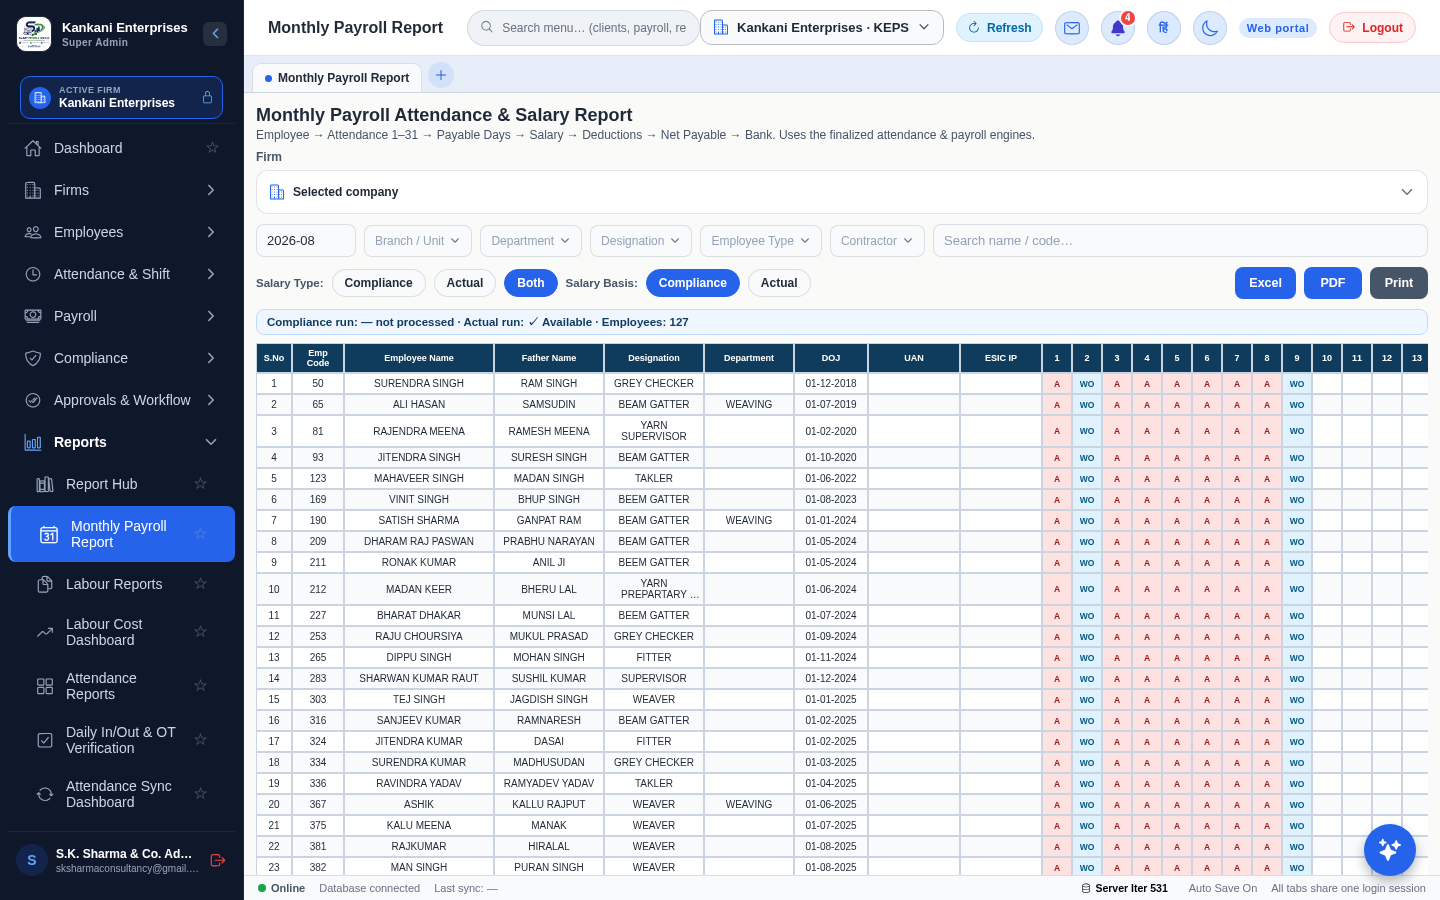
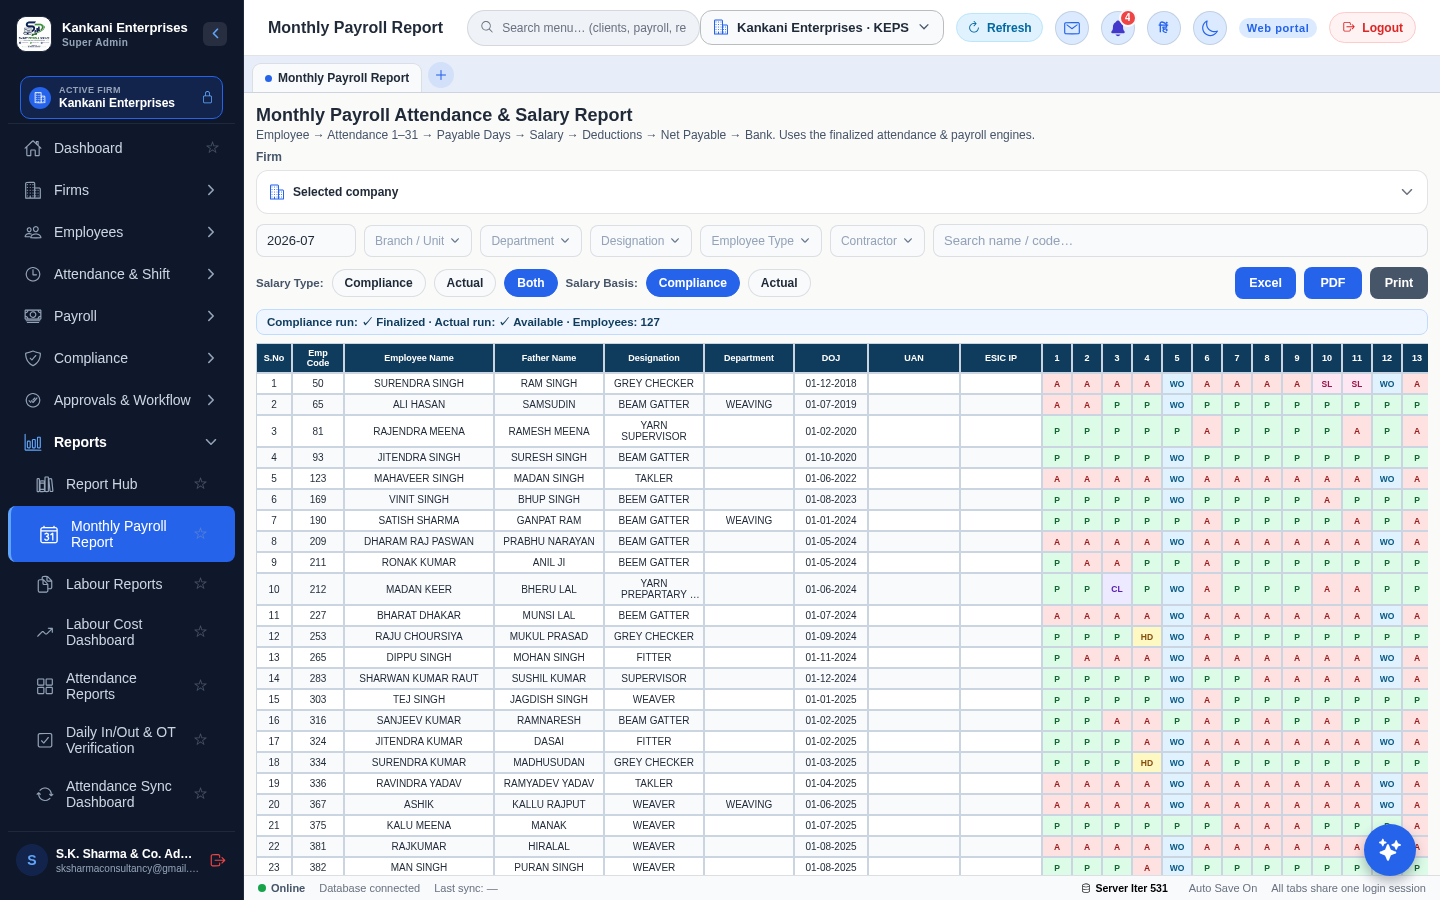
auto-commit for dd07750e-846b-4f8f-a708-17c5babb6b2c

Changed region(s): [[0.7188, 0.4044, 1.0, 0.9956], [0.25, 0.3422, 0.4688, 0.3733]]

diff --git a/frontend/app/user-manual.tsx b/frontend/app/user-manual.tsx
@@ -27,7 +27,6 @@ const SECTIONS = [
 export default function UserManualScreen() {
   const { user, loading } = useAuth();
   const [busy, setBusy] = useState(false);
-  const [refreshing, setRefreshing] = useState(false);
   const [status, setStatus] = useState<any>(null);
   const [err, setErr] = useState("");
 
@@ -40,28 +39,8 @@ export default function UserManualScreen() {
     if (user?.role === "super_admin") void loadStatus();
   }, [user, loadStatus]);
 
-  // poll while a screenshot capture is running
-  useEffect(() => {
-    if (!status?.capture_running) return;
-    const t = setInterval(loadStatus, 10000);
-    return () => clearInterval(t);
-  }, [status?.capture_running, loadStatus]);
-
   if (loading) return null;
   if (!user || user.role !== "super_admin") return <Redirect href="/" />;
-
-  const refreshShots = async () => {
-    setRefreshing(true);
-    setErr("");
-    try {
-      await api("/admin/user-manual/refresh-screenshots", { method: "POST" });
-      await loadStatus();
-    } catch (e: any) {
-      setErr(e?.message || "Refresh failed");
-    } finally {
-      setRefreshing(false);
-    }
-  };
 
   const download = async (kind: "user-manual" | "employee-guide" = "user-manual") => {
     setBusy(true);
@@ -107,29 +86,13 @@ export default function UserManualScreen() {
             <Ionicons name="phone-portrait-outline" size={16} color="#fff" />
             <Text style={s.btnTxt}>Employee Quick Guide (PDF)</Text>
           </Pressable>
-          {/* Iter 531 — auto-update controls */}
-          <Pressable style={[s.btn, s.btnGhost]} onPress={refreshShots}
-            disabled={refreshing || status?.capture_running}
-            testID="manual-refresh">
-            {refreshing ? <ActivityIndicator color="#7DD3FC" /> : (
-              <>
-                <Ionicons name="camera-outline" size={16} color="#7DD3FC" />
-                <Text style={[s.btnTxt, { color: "#7DD3FC" }]}>
-                  {status?.capture_running
-                    ? "Re-capturing screenshots…"
-                    : "Refresh Screenshots (current UI)"}
-                </Text>
-              </>
-            )}
-          </Pressable>
+          {/* Iter 531 — auto-update status */}
           {status ? (
             <Text style={s.statusTxt}>
-              Auto-update: version Iter {status.server_version} · What&apos;s
-              New entries {status.whats_new_entries} · {status.screenshots}
-              {" "}screenshots{status.last_capture?.at
+              Auto-update: version Iter {status.server_version} ·{" "}
+              {status.screenshots} screenshots{status.last_capture?.at
                 ? ` (captured ${String(status.last_capture.at).slice(0, 10)})`
                 : " (bundled)"}
-              {status.capture_running ? " · capture in progress…" : ""}
             </Text>
           ) : null}
           {err ? <Text style={s.err}>{err}</Text> : null}
@@ -147,10 +110,9 @@ export default function UserManualScreen() {
           ))}
         </View>
         <Text style={s.note}>
-          The manual auto-updates on every download: software version,
-          date, the What&apos;s New page and any new feature sections are
-          generated live. Use &quot;Refresh Screenshots&quot; after new
-          payroll features ship so the images match the current UI.
+          The manual auto-updates on every download: software version and
+          any new feature sections are generated live with the latest
+          portal screenshots.
         </Text>
       </ScrollView>
     </SafeAreaView>
@@ -179,10 +141,6 @@ const s = StyleSheet.create({
     justifyContent: "center",
   },
   btnTxt: { color: "#fff", fontWeight: "800", fontSize: 14 },
-  btnGhost: {
-    backgroundColor: "transparent", borderWidth: 1.2, borderColor: "#7DD3FC",
-    marginTop: 10,
-  },
   statusTxt: {
     color: "#94A3B8", fontSize: 11, marginTop: 10, textAlign: "center",
   },

diff --git a/frontend/app/monthly-payroll-report.tsx b/frontend/app/monthly-payroll-report.tsx
@@ -12,7 +12,7 @@ import {
   Text, TextInput, View,
 } from "react-native";
 import { SafeAreaView } from "react-native-safe-area-context";
-import { Stack } from "expo-router";
+import { Stack, useLocalSearchParams } from "expo-router";
 import { Ionicons } from "@expo/vector-icons";
 
 import { api, apiBinary } from "@/src/api/client";
@@ -102,8 +102,13 @@ function Pick({ label, value, options, onChange }: {
 export default function MonthlyPayrollReport() {
   const { user } = useAuth();
   const { selectedCompanyId } = useSelectedCompany();
+  const params = useLocalSearchParams<{ month?: string }>();
   const [cid, setCid] = useState("");
-  const [month, setMonth] = useState(currentMonth());
+  const [month, setMonth] = useState(
+    typeof params.month === "string" && /^\d{4}-\d{2}$/.test(params.month)
+      ? params.month
+      : currentMonth(),
+  );
   const [branch, setBranch] = useState("");
   const [dept, setDept] = useState("");
   const [desig, setDesig] = useState("");

diff --git a/backend/routes/user_manual.py b/backend/routes/user_manual.py
@@ -209,20 +209,16 @@ def _cover(cv, doc):
                   "Compliance · Payroll · Manpower")
     cv.setFont("Helvetica", 10)
     y = 62 * mm
-    shots_at = str(_shot_meta().get("at") or "")[:10] or "bundled"
     for line in (
-            "Product          :  S.K. Sharma & Co. Payroll & Compliance Portal",
+            "Product By       :  S.K. Sharma & Co. Payroll & Compliance Portal",
             f"Software Version :  Server Iter {APP_ITERATION}",
-            "Document Version :  auto (rebuilt on every download)",
-            f"Last Updated     :  {date.today():%d-%m-%Y}",
-            f"Screenshots As Of:  {shots_at}",
-            "Prepared By      :  S.K. Sharma & Co."):
+            "Prepared By      :  Ankit Sharma"):
         cv.drawString(20 * mm, y, line)
         y -= 6.5 * mm
-    cv.setFont("Helvetica-Oblique", 8.5)
-    cv.setFillColor(rl.HexColor("#94A3B8"))
+    cv.setFont("Helvetica-BoldOblique", 10.5)
+    cv.setFillColor(rl.HexColor("#7DD3FC"))
     cv.drawString(20 * mm, 18 * mm,
-                  "CONFIDENTIAL — for authorised client users only.")
+                  '"Your Satisfaction is our First Ambition"')
     cv.restoreState()
 
 
@@ -256,11 +252,15 @@ def _cover_emp(cv, doc):
     cv.setFont("Helvetica", 10)
     y = 62 * mm
     for line in (
+            "Product By       :  S.K. Sharma & Co.",
             f"Software Version :  Server Iter {APP_ITERATION}",
-            f"Last Updated     :  {date.today():%d-%m-%Y}",
-            "Prepared By      :  S.K. Sharma & Co."):
+            "Prepared By      :  Ankit Sharma"):
         cv.drawString(20 * mm, y, line)
         y -= 6.5 * mm
+    cv.setFont("Helvetica-BoldOblique", 10.5)
+    cv.setFillColor(rl.HexColor("#E0F2FE"))
+    cv.drawString(20 * mm, 18 * mm,
+                  '"Your Satisfaction is our First Ambition"')
     cv.restoreState()
 
 
@@ -275,16 +275,17 @@ def _page(cv, doc):
                   getattr(doc, "_hdr_title",
                           "PAYROLL & COMPLIANCE PORTAL — QUICK USER MANUAL"))
     cv.drawRightString(W - 15 * mm, H - 10 * mm, "S.K. SHARMA & CO.")
+    cv.setFont("Helvetica-BoldOblique", 8.5)
+    cv.setFillColor(TEAL)
+    cv.drawString(15 * mm, 8 * mm,
+                  '"Your Satisfaction is our First Ambition"')
     cv.setFont("Helvetica", 8)
     cv.setFillColor(GREY)
-    cv.drawString(15 * mm, 8 * mm,
-                  "Prepared by S.K. Sharma & Co. · Confidential")
     cv.drawRightString(W - 15 * mm, 8 * mm, f"Page {cv.getPageNumber()}")
     cv.restoreState()
 
 
-def build_manual(updates: Optional[list] = None,
-                 extras: Optional[list] = None) -> BytesIO:
+def build_manual(extras: Optional[list] = None) -> BytesIO:
     buf = BytesIO()
     doc = _Doc(buf, pagesize=A4, title="Quick User Manual")
     fr = Frame(15 * mm, 14 * mm, CW, H - 32 * mm, id="f")
@@ -301,34 +302,6 @@ def build_manual(updates: Optional[list] = None,
     toc.dotsMinLevel = 0
     story.append(toc)
     story.append(PageBreak())
-
-    # -------- What's New (auto-generated from the feature changelog)
-    if updates:
-        story.append(Paragraph("What's New — Recent Payroll Updates", S_H1))
-        story.append(Paragraph(
-            "This manual rebuilds itself on every download — the latest "
-            "portal features are listed below automatically.", S_BODY))
-        story.append(Spacer(1, 4))
-        wn_rows = [[Paragraph("<b>Date</b>", S_BODY),
-                    Paragraph("<b>Feature</b>", S_BODY),
-                    Paragraph("<b>Where</b>", S_BODY)]]
-        for u in updates[:12]:
-            wn_rows.append([
-                Paragraph(str(u.get("date") or "")[:10], S_BODY),
-                Paragraph(f"<b>{u.get('title', '')}</b><br/>"
-                          f"{u.get('desc', '')}", S_BODY),
-                Paragraph(u.get("nav", ""), S_BODY)])
-        wt = Table(wn_rows, colWidths=[CW * 0.14, CW * 0.58, CW * 0.28])
-        wt.setStyle(TableStyle([
-            ("BACKGROUND", (0, 0), (-1, 0), NAVY),
-            ("GRID", (0, 0), (-1, -1), 0.6, GREY),
-            ("ROWBACKGROUNDS", (0, 1), (-1, -1), [rl.white, TEAL_BG]),
-            ("TOPPADDING", (0, 0), (-1, -1), 5),
-            ("BOTTOMPADDING", (0, 0), (-1, -1), 5),
-            ("LEFTPADDING", (0, 0), (-1, -1), 8),
-            ("VALIGN", (0, 0), (-1, -1), "TOP")]))
-        story.append(wt)
-        story.append(PageBreak())
 
     _section(story, 1, "Login", "Portal URL → Admin Sign In", "login",
              ["Choose 'Admin sign in'", "Enter User ID / Email",
@@ -729,8 +702,8 @@ async def user_manual_pdf(token: Optional[str] = Query(None),
     require_role(admin, ["super_admin"])  # SUPER ADMIN ONLY
     if admin.get("role") != "super_admin":
         raise HTTPException(status_code=403, detail="Super admin only")
-    updates, extras = await _manual_data()
-    buf = build_manual(updates, extras)
+    extras = (await _manual_data())[1]
+    buf = build_manual(extras)
     return Response(content=buf.getvalue(), media_type="application/pdf",
                     headers={"Content-Disposition":
                              'inline; filename="Payroll_Quick_User_Manual.pdf"'})

diff --git a/backend/manual_capture.py b/backend/manual_capture.py
@@ -65,8 +65,12 @@ def _best_payslip_uid(_base: str, token: str, ctx: dict) -> str:
             url, headers={"Authorization": f"Bearer {token}"})
         rows = json.loads(urllib.request.urlopen(
             req, timeout=60).read()).get("rows") or []
-        rows.sort(key=lambda r: -(float(r.get("present_days") or 0)
-                                  + 0.5 * float(r.get("half_days") or 0)))
+        # prefer employees with a REAL salary amount (never a ₹0 payslip),
+        # then the most present days
+        rows.sort(key=lambda r: (-(1 if float(r.get("gross") or 0) > 0
+                                   else 0),
+                                 -(float(r.get("present_days") or 0)
+                                   + 0.5 * float(r.get("half_days") or 0))))
         if rows and float(rows[0].get("present_days") or 0) > 0:
             return rows[0]["user_id"]
     except Exception as e:  # noqa: BLE001
@@ -221,11 +225,16 @@ def main() -> int:
     m = ctx["month"]
     mm, yy = int(m[5:7]), int(m[:4])
     # (name, route, wait_ms, click_text_or_None)
+    # label of the data month as shown on the Bank Transfer month chips
+    bank_chip = date(yy, mm, 1).strftime("%b %Y")
     shots = [
         ("dashboard", "/", 8000, None),
         ("firm_master", "/companies", 6000, None),
+        # Employee Master section must show the EMPLOYEE LIST — the
+        # /admin page is scrolled down to its "Employees" section below
         ("employee_master", "/admin", 9000, None),
-        ("attendance", "/attendance-grid", 9000, None),
+        # force the month that actually HAS punch data
+        ("attendance", f"/attendance-grid?month={m}", 9000, None),
         ("biometric", "/biometric-devices", 6000, None),
         ("leave", "/leaves", 6000, "All requests"),
         ("esic_leave", "/esic-leave", 7000, None),
@@ -235,9 +244,11 @@ def main() -> int:
         ("payslip",
          f"/payslip?user_id={ctx['payslip_uid']}&month={mm}&year={yy}",
          8000, None),
-        ("bank", "/bank-transfer", 6000, None),
+        # click the chip of the month that HAS a finalized salary run
+        ("bank", "/bank-transfer", 6000, bank_chip),
         ("reports", "/reports-center", 7000, None),
-        ("monthly_payroll", "/monthly-payroll-report", 9000, None),
+        ("monthly_payroll", f"/monthly-payroll-report?month={m}",
+         9000, None),
     ]
     ok, fail = [], []
     seed_samples(db, ctx)
@@ -273,6 +284,16 @@ def main() -> int:
                             pg.get_by_text(click, exact=True).first.click(
                                 force=True, timeout=5000)
                             pg.wait_for_timeout(4000)
+                        except Exception:  # noqa: BLE001
+                            pass
+                    if name == "employee_master":
+                        # scroll to the employee list (search box) so the
+                        # screenshot shows employees — not the stats cards
+                        try:
+                            pg.get_by_placeholder(
+                                "Search name / code / phone / dept",
+                            ).first.scroll_into_view_if_needed(timeout=8000)
+                            pg.wait_for_timeout(2500)
                         except Exception:  # noqa: BLE001
                             pass
                     problem = _page_problem(pg)

diff --git a/backend/routes/temp_bundle.py b/backend/routes/temp_bundle.py
@@ -67,10 +67,10 @@ async def temp_code_bundle(token: str = Query(...), kind: str = Query("tar")):
     if kind == "script":
         # Latest VPS deploy script — lets the user fetch + run it in two
         # lines instead of pasting a long script into the SSH terminal.
-        path = "/app/deploy_vps_iter531.sh"
+        path = "/app/deploy_vps_iter532.sh"
         if not os.path.exists(path):
             raise HTTPException(status_code=404, detail="Deploy script not found")
-        return FileResponse(path, filename="deploy525.sh",
+        return FileResponse(path, filename="deploy532.sh",
                             media_type="text/x-shellscript")
     if kind == "legacy":
         # Iter 299 — SQL Server legacy backup restore + explorer setup.

diff --git a/backend/server.py b/backend/server.py
@@ -9451,7 +9451,7 @@ async def health():
 # which code iteration the server is running, so the user can instantly see
 # whether their VPS has the latest deploy before testing.
 # BUMP THIS on every release (keep in sync with the deploy script number).
-APP_ITERATION = "531"
+APP_ITERATION = "532"
 
 
 @api.get("/version")

diff --git a/memory/PRD.md b/memory/PRD.md
@@ -5265,3 +5265,26 @@ changelog entry auto-included; frontend section chips updated.
    now functional for employees.
 3. user-manual screen: second button "Employee Quick Guide (PDF)";
    changelog entries logged for PWA guide + employee guide.
+
+## Iter 532 (rev 2) — Manual screenshot/heading fix + cover cleanup + rollback (user request)
+1. FIXED heading↔screenshot mismatches in manual_capture.py:
+   - employee_master: /admin scrolled to "Employees" list (search box via
+     get_by_placeholder scroll_into_view) — was Admin Panel stats.
+   - attendance: /attendance-grid?month=<data month> (was blank current month).
+   - monthly_payroll: /monthly-payroll-report?month=<data month> (added
+     useLocalSearchParams month support to monthly-payroll-report.tsx).
+   - bank: clicks the salary-run month chip ("Jul 2026").
+   - payslip: _best_payslip_uid prefers gross>0 rows (no more ₹0 slip).
+   All 21 screenshots re-captured & visually verified.
+2. Cover page (user request): "Product By : S.K. Sharma & Co. Payroll &
+   Compliance Portal", "Prepared By : Ankit Sharma"; REMOVED Document
+   Version / Last Updated / Screenshots As Of / CONFIDENTIAL. Employee
+   guide cover matched. Punch line on EVERY page footer:
+   "Your Satisfaction is our First Ambition".
+3. REMOVED the "What's New — Recent Payroll Updates" page + TOC entry
+   (build_manual now takes extras only; manual_updates collection kept
+   for the /status endpoint).
+4. ROLLBACK (user request): "Refresh Screenshots / Re-capturing
+   screenshots…" button removed from user-manual.tsx (backend
+   /refresh-screenshots endpoint kept for dev workspace use).
+5. APP_ITERATION=532, deploy_vps_iter532.sh, temp_bundle pointer updated.

diff --git a/test_result.md b/test_result.md
@@ -370,3 +370,15 @@ ITER 487 (doc-expiry alerts):
   incl. 6 employee phone shots; temp employee session + samples cleaned.
 - payroll/run employee self-scope fix verified via emp_payslip capture
   showing real data (20 present days).
+
+## Iter 532 (rev 2)
+- manual_capture re-run: 21/21 ok. Visually verified employee_master
+  (employee list), attendance 2026-07 (real punches), monthly_payroll
+  2026-07 (P/A codes, finalized run), bank Jul 2026 chip, payslip
+  ₹22,100 (MADAN KEER).
+- user-manual.pdf: 23 pages, cover has Product By/Prepared By Ankit
+  Sharma only, no CONFIDENTIAL, footer punch line on every page, no
+  What's New page/TOC entry. employee-guide.pdf 9 pages OK.
+- Frontend /user-manual: refresh button gone, download buttons + status
+  line work (screenshot verified). Playwright chromium-headless-shell
+  reinstalled after fork (browsers wiped).
